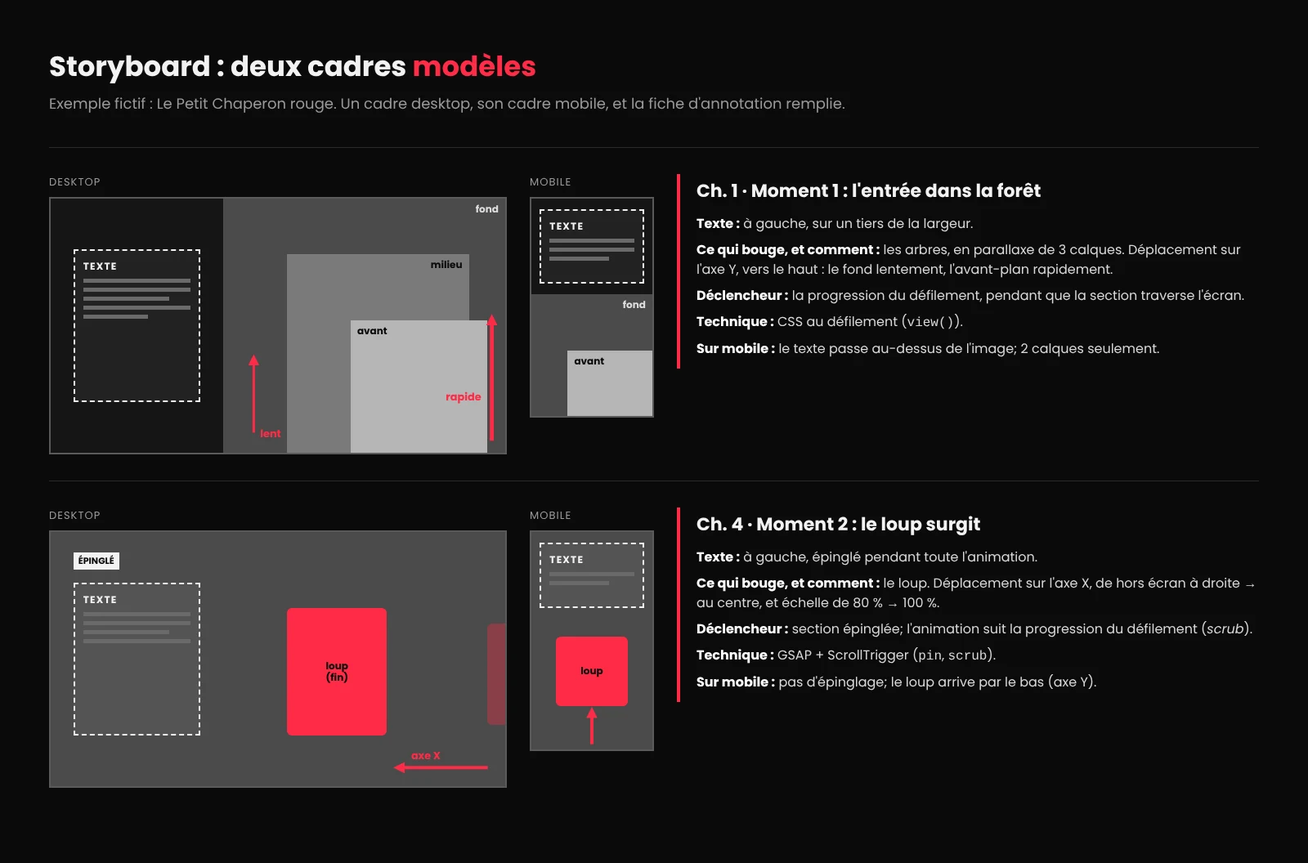
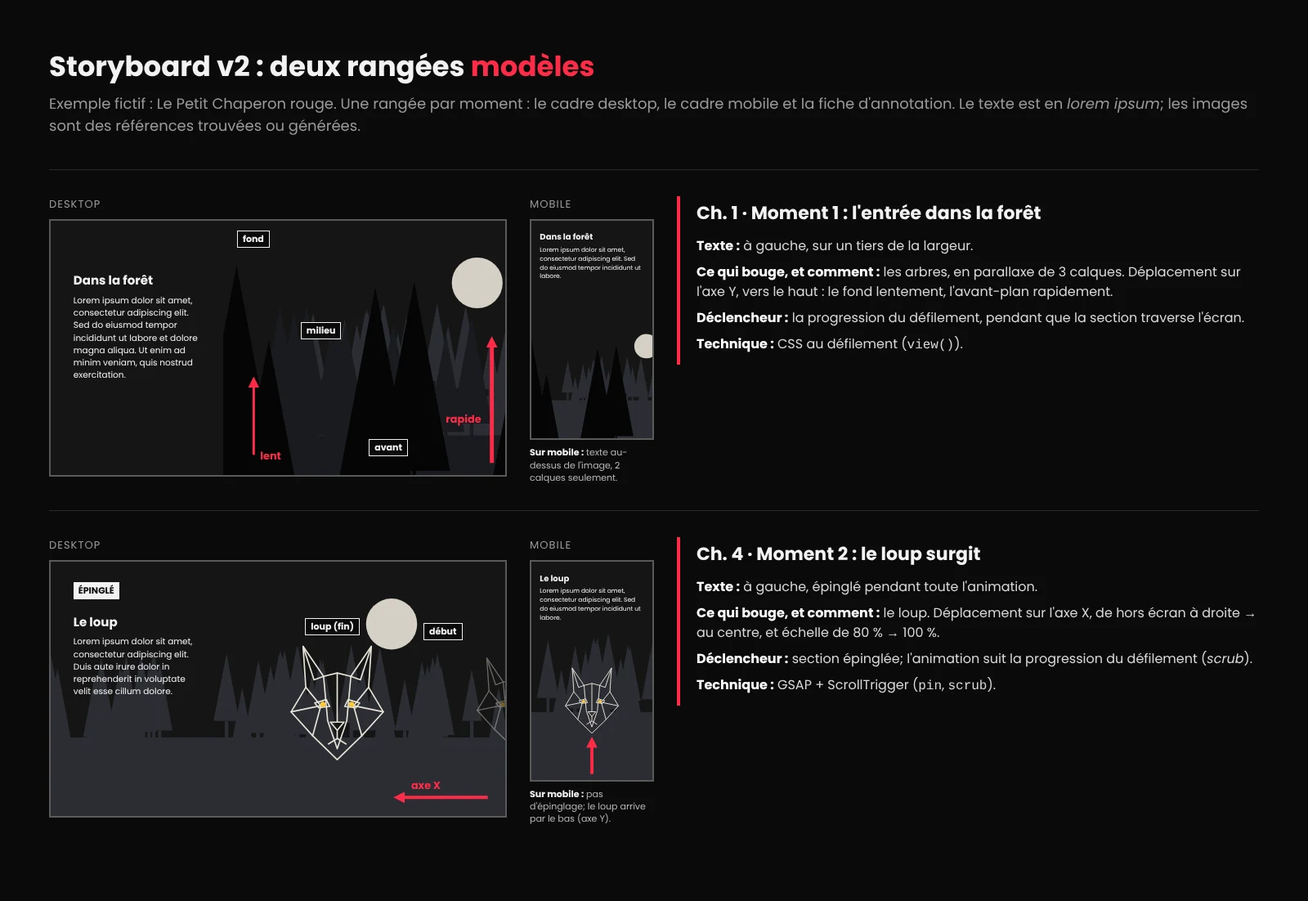
spritesheet et exercice

diff --git a/docs/582-511-web5/css/demo-spritesheet.html b/docs/582-511-web5/css/demo-spritesheet.html
@@ -68,7 +68,7 @@
     .sprite {
       width: min(40vw, 300px);   /* n'importe quelle taille */
       aspect-ratio: 1 / 1;       /* même ratio qu'UNE image */
-      overflow: hidden;          /* la fenêtre : on ne voit qu'une image */
+      overflow: clip;            /* la fenêtre : on ne voit qu'une image */
     }
 
     .sprite img {

diff --git a/docs/582-511-web5/projets/recit-defilant/cahier-de-charges.md b/docs/582-511-web5/projets/recit-defilant/cahier-de-charges.md
@@ -17,7 +17,7 @@
 [:material-file-document-outline: Consignes complètes du récit défilant](index.md){ .md-button }
 
 !!! warning "Le processus est évalué"
-    Le cahier de charges est la première étape de votre processus. Au cours du **mer. 21 oct.**, vous me présenterez votre avancement (concept, chapitres, début du storyboard). Le cahier et le storyboard se font **sans IA** : c'est votre réflexion que je veux voir.
+    Le cahier de charges est la première étape de votre processus. Au cours du **mer. 21 oct.**, vous me présenterez votre avancement (concept, chapitres, début du storyboard). Le cahier et le storyboard se font **sans IA** : c'est votre réflexion que je veux voir. Seule exception : une image générée pour illustrer un cadre du storyboard.
 
 !!! danger "Remises formatives : l'échéance compte"
     Même si une remise est dite « formative », **son échéance compte**. Le respect des échéances de **toutes** les remises du projet (cahier de charges, storyboard v2, point de contrôle, prototype, bêta) aura un **impact sur votre note finale**. [Voir les 4 niveaux](index.md#echeances).
@@ -39,27 +39,32 @@ Vous avez deux semaines, incluant un cours  : le **mer. 21 oct.**, arrivez avec 
 
 Un storyboard de défilement n'est pas une maquette de chaque pixel. C'est **la suite des moments** que vit le visiteur.
 
-**Partez du gabarit** : il contient des cadres desktop et mobile, prêts à dupliquer autant de fois que nécessaire.
+**Partez du gabarit** : il contient **deux pages**, une pour le storyboard **desktop** (cadres en format paysage) et une pour le storyboard **mobile** (cadres en format portrait). Dupliquez les cadres autant de fois que nécessaire.
 
 [:material-download: Télécharger le gabarit de storyboard (Figma)](../../assets/documents/Storyboard_Gabarit_Mobile_Desktop.fig){ .md-button .md-button--primary download }
 
 Pour l'ouvrir : dans l'accueil de Figma, cliquez sur **Importer** (ou glissez le fichier `.fig` dans la fenêtre), puis partagez le fichier avec votre coéquipier ou coéquipière.
 
 !!! warning "Storyboard v2 : à remettre le ven. 30 oct., 23 h 59"
-    Les exigences ci-dessous ont été précisées après la première remise. Reprenez votre storyboard pour qu'il les respecte toutes, puis remettez-le comme la première fois, avec un nouvel export PDF : `documentation/storyboard-v2.pdf`. **Gardez** `storyboard.pdf` : c'est la trace de votre première version.
+    Les exigences ci-dessous ont été précisées après la première remise. Vous montez une **v2** de votre storyboard, sur le modèle des cadres du Chaperon (plus bas).
+
+!!! danger "Ne touchez pas à votre v1"
+    Dans votre fichier Figma, **ne modifiez pas et ne supprimez pas** les pages de votre première version : c'est la trace de votre processus. Créez une **nouvelle page**, nommée `Storyboard V2`, et travaillez seulement là. Dans le dépôt, gardez aussi `documentation/storyboard.pdf` tel quel.
 
 ### Ce que votre storyboard doit contenir
 
-- **Au moins un cadre (*frame*) par chapitre**, en format desktop. Un chapitre où plusieurs animations se produisent, en même temps ou l'une après l'autre, peut avoir **plusieurs cadres** : un par moment important.
-- **Un cadre mobile à côté de chaque cadre desktop.** Il montre ce qui change sur un petit écran : la place du texte, une animation simplifiée ou retirée.
-- **La zone de texte dessinée dans chaque cadre** : un rectangle identifié « Texte ». C'est là que le visiteur lit votre récit; elle doit avoir sa place dans la composition, pas être ajoutée à la fin.
-- **La fiche d'annotation complète**, dans la zone d'annotation de chaque cadre (voir ci-dessous).
-- Les **médias** peuvent être des boîtes grises ou des croquis, mais **lisibles** : quelqu'un d'autre doit comprendre ce qu'il voit.
+- **Une rangée par moment**, comme dans le modèle : le cadre **desktop**, le cadre **mobile** à côté, puis la **fiche d'annotation**. Tout est visible d'un coup d'œil.
+- **Au moins une rangée par chapitre.** Un chapitre où plusieurs animations se produisent, en même temps ou l'une après l'autre, peut avoir **plusieurs rangées** : une par moment important.
+- **Le cadre mobile** montre ce qui change sur un petit écran : la place du texte, une animation simplifiée ou retirée. Sous le cadre mobile, une ligne : ce qui change sur mobile, ou « Comme desktop ».
+- **Le texte du chapitre placé dans chaque cadre** : un titre et un petit paragraphe de *lorem ipsum*, à la taille et à l'endroit où il apparaîtra à l'écran. C'est là que le visiteur lit votre récit : le texte doit avoir sa place dans la composition, pas être ajouté à la fin.
+- **La fiche d'annotation complète**, à droite des deux cadres (voir ci-dessous).
+- **Des images qui montrent ce qu'on doit voir**, pas des boîtes grises : un croquis, ou une image trouvée ou générée, collée dans le cadre pour représenter chaque élément (le décor, le personnage, l'objet). Ce n'est pas l'image finale, c'est une **référence**. Avec des boîtes grises, personne ne sait ce qui est quoi dans le cadre.
+- Si un élément n'est pas évident, **nommez-le** avec une petite étiquette (« loup », « calque avant »).
 - Repérez votre **moment dataviz** et votre **composant Vue** (navigateur de chapitres ou barre de progression).
 
 ### La fiche d'annotation
 
-Copiez ces amorces dans la zone d'annotation de **chaque** cadre, et complétez-les :
+Dans **chaque** rangée, copiez ces amorces dans une zone de texte, à droite des cadres, et complétez-les :
 
 ```text
 Ch. # · Moment # :
@@ -67,7 +72,6 @@ Texte : où est-il placé?
 Ce qui bouge ou ce qui est animé, et comment? :
 Déclencheur :
 Technique :
-Sur mobile :
 ```
 
 - **Ce qui bouge** : l'élément, le type d'animation (tableau ci-dessous), et son départ → son arrivée.
@@ -96,20 +100,31 @@ L'histoire, elle est déjà dans votre tableau des chapitres. La fiche décrit *
 | Le Chaperon rencontre le loup dans la forêt. | Le loup : déplacement sur l'axe X, de hors écran à droite → au centre, pendant le défilement. Le texte reste épinglé à gauche. |
 | La forêt devient de plus en plus sombre. | Le fond : fondu du vert vers le noir (`opacity` d'un calque sombre de 0 à 0,8), selon la progression du défilement. |
 
-### Deux cadres modèles
+### Le modèle : deux rangées
 
-![Deux cadres de storyboard modèles : chaque cadre desktop avec son cadre mobile et sa fiche d'annotation remplie](assets/storyboard-modele.webp)
+![Deux rangées de storyboard modèles : pour chaque moment, le cadre desktop, le cadre mobile et la fiche d'annotation](assets/storyboard-modele.webp)
+
+### Monter votre v2, étape par étape
+
+Vous ne repartez pas de zéro : vous réutilisez les cadres de votre v1.
+
+1. Dans Figma, créez une nouvelle page : `Storyboard V2`.
+2. Pour chaque moment, créez un grand cadre qui servira de **rangée**, nommé comme le moment (ex. `Ch. 4 · Moment 2`).
+3. **Copiez-collez** dans la rangée votre cadre desktop de la v1, et son cadre mobile à côté. S'il n'existe pas encore, créez le cadre mobile.
+4. Complétez les deux cadres : le texte en *lorem ipsum*, des images de référence, des étiquettes au besoin.
+5. Ajoutez la **fiche d'annotation** à droite, et la ligne « sur mobile » sous le cadre mobile.
+6. Placez les rangées dans l'ordre du récit, l'une sous l'autre.
 
 ### Remettre le storyboard : le lien et le PDF
 
 Vous remettez votre storyboard **de deux façons** :
 
 - **Le lien Figma**, dans le `README.md` et dans le cahier (section 2), avec accès donné à `marie-michelle.ouellet@cmontmorency.qc.ca`. C'est la version vivante : je pourrai y laisser des commentaires.
-- **Un export PDF**, déposé dans le dépôt : `documentation/storyboard.pdf`. C'est la version **figée au moment de la remise** : elle montre ce qui était fait à l'échéance.
+- **Un export PDF**, déposé dans le dépôt : `documentation/storyboard.pdf` pour la v1, `documentation/storyboard-v2.pdf` pour la v2. C'est la version **figée au moment de la remise** : elle montre ce qui était fait à l'échéance.
 
-Pour exporter : dans Figma, menu principal → *File* → *Export frames to PDF*. Vérifiez que tous vos cadres y sont, dans l'ordre du récit.
+Pour exporter la v2 : ouvrez la page `Storyboard V2`, puis menu principal → *File* → *Export frames to PDF*. Chaque rangée devient une page du PDF. Vérifiez qu'elles y sont toutes, dans l'ordre du récit.
 
-Pas d'outils IA de Figma pour le storyboard : dans ce projet, l'IA sert **seulement à créer vos médias**, jusqu'à nouvel ordre.
+Pas d'outils IA de Figma pour composer le storyboard ni pour rédiger les annotations. Vous pouvez par contre **générer une image de référence** pour illustrer un cadre : dans ce projet, l'IA sert **seulement à créer des images**, jusqu'à nouvel ordre.
 
 ## Le modèle de données JSON { #le-modele-de-donnees-json }
 
@@ -364,5 +379,5 @@ Ce que chacun aura fait d'ici le cours du mer. 28 oct. : 2 ou 3 lignes par perso
 - [ ] La trace du brainstorm est accessible : lien FigJam partagé, ou photos lisibles dans `documentation/brainstorm/`.
 - [ ] Le lien Figma du storyboard fonctionne, avec accès donné à `marie-michelle.ouellet@cmontmorency.qc.ca`.
 - [ ] Le storyboard est exporté en PDF dans `documentation/storyboard.pdf`, avec tous les cadres.
-- [ ] **Storyboard v2** (ven. 30 oct.) : chaque cadre desktop a son cadre mobile, sa zone de texte et sa fiche d'annotation complète. Exporté dans `documentation/storyboard-v2.pdf`.
+- [ ] **Storyboard v2** (ven. 30 oct.) : sur une nouvelle page Figma (la v1 intacte), une rangée par moment : cadre desktop, cadre mobile, fiche. Le texte en *lorem ipsum*, des images de référence (pas de boîtes grises), une fiche complète. Exporté dans `documentation/storyboard-v2.pdf`.
 - [ ] Le tout est poussé sur GitHub **au plus tard le ven. 23 oct., 23 h 59**.

diff --git a/docs/582-511-web5/css/exercice-spritesheet.md b/docs/582-511-web5/css/exercice-spritesheet.md
@@ -1,0 +1,118 @@
+# Exercice : le monstre responsive
+
+<div class="essentiel" markdown>
+<p class="essentiel__titre">L'essentiel en 3 points</p>
+
+1. Vous partez d'un monstre animé avec la **méthode classique** (arrière-plan + `background-position`), et vous le convertissez à la **version responsive et performante** : une `<img>` déplacée avec `transform`.
+2. Puis vous réglez la vitesse, la pause et `prefers-reduced-motion`.
+3. Défi : faire **marcher le monstre au défilement**. Vous retrouverez un piège que vous connaissez déjà.
+
+</div>
+
+**Seul, environ 40 minutes.** Gardez la page [Animation par spritesheet](animation-spritesheet.md) ouverte à côté.
+
+## Obtenir votre dépôt (5 min)
+
+Votre dépôt est créé pour vous par **Classroom 50**, avec les fichiers de départ.
+
+**[Accepter l'exercice dans Classroom 50](#){ :target="_blank" }**
+<!-- MM : remplacer # par le lien d'acceptation. -->
+
+1. Ouvrez le lien ci-dessus, connectez-vous avec **Sign in with GitHub**, puis acceptez l'exercice.
+2. Quand le dépôt est prêt, ouvrez-le, puis **clonez**-le sur votre poste et ouvrez-le dans VS Code.
+3. Ouvrez `index.html` avec **Live Server** : le monstre marche déjà, avec la méthode classique.
+
+Le dépôt contient :
+
+- `index.html` : la page;
+- `css/style.css` : le style et l'animation, avec la place pour vos réponses de la partie 1;
+- `assets/images/magenta_spritesheet_700.png` : la planche.
+
+## La planche
+
+**19 images** de **700 × 700 px**, côte à côte : une planche de 19 × 700 = **13 300 px** de large.
+
+Le code de départ, dans `index.html` :
+
+```html
+<div class="monstre-magenta"></div>
+```
+
+Et dans `css/style.css` :
+
+```css
+.monstre-magenta {
+  width: 50vw;
+  aspect-ratio: 1 / 1;
+  margin: 0 auto;
+  background-image:
+    url("../assets/images/magenta_spritesheet_700.png");
+  background-size: 1900% 100%;
+  animation: marche 1s steps(19) infinite;
+}
+
+@keyframes marche {
+  from { background-position: 0 0; }
+  to   { background-position: -1900% 0; }
+}
+```
+
+## Partie 1 : lire le code de départ (5 min)
+
+Avant de toucher au code, répondez dans le commentaire prévu en haut de `css/style.css` :
+
+1. Pourquoi `background-size: 1900% 100%`?
+2. Pourquoi `steps(19)`? Remplacez-le par `linear` : que se passe-t-il? Remettez `steps(19)`.
+3. Quelle propriété est animée? Selon les garde-fous du récit défilant, est-ce une bonne propriété à animer?
+
+## Partie 2 : convertir à la version 2 (15 min)
+
+Transformez le code pour utiliser la méthode **responsive et performante** :
+
+- [ ] Dans le HTML, la planche devient une vraie image `<img>`, avec un `alt`, à l'intérieur de la `div`.
+- [ ] La `div` devient la **fenêtre** : la taille d'**une** image, et elle cache tout ce qui dépasse.
+- [ ] L'image fait **19 fois** la largeur de la fenêtre.
+- [ ] L'animation déplace l'image avec **`transform`**, et plus avec `background-position`.
+
+**Vérifiez** : redimensionnez la fenêtre du navigateur. Le monstre suit, et il marche sans trembler ni glisser.
+
+!!! tip "Si le monstre glisse ou tremble"
+    Ajoutez temporairement une bordure à la fenêtre (`outline: 2px solid red`) et mettez l'animation en pause (`animation-play-state: paused`). Changez la valeur de `transform` à la main dans l'inspecteur : chaque image doit remplir exactement la fenêtre.
+
+## Partie 3 : régler (10 min)
+
+- [ ] **La vitesse** : le monstre doit marcher à **12 images par seconde**. Calculez la durée (formule dans la page sur la spritesheet) et écrivez le calcul en commentaire.
+- [ ] **La pause au survol** : quand la souris est sur le monstre, il s'arrête.
+- [ ] **Moins de mouvement** : avec `prefers-reduced-motion: reduce`, le monstre ne marche pas.
+
+Pour tester `prefers-reduced-motion` sans changer les réglages de votre ordinateur : dans Chrome, inspecteur → menu **⋮** → **More tools** → **Rendering** → *Emulate CSS media feature prefers-reduced-motion*.
+
+## Défi : le monstre marche au défilement (10 min)
+
+Dans votre récit défilant, c'est le visiteur qui fait avancer l'animation. Faites la même chose ici : **le monstre fait ses pas quand on défile**, et s'arrête quand on arrête de défiler.
+
+- [ ] Ajoutez de l'espace avant et après le monstre (ex. deux `div` de `150vh`), pour qu'on puisse défiler.
+- [ ] Liez l'animation de l'image à sa visibilité dans l'écran, avec `animation-timeline` (voir [Animations pilotées par le défilement](animations-scroll.md)).
+- [ ] Pendant la traversée de l'écran, le monstre fait **3 cycles** de marche.
+- [ ] Protégez le tout avec `@supports`.
+
+!!! warning "Le monstre reste figé?"
+    Ce n'est pas votre animation. Relisez le piège de la page sur les animations au défilement, à propos d'une propriété de la fenêtre.
+
+**Pour aller plus loin** : faites aussi **traverser l'écran** au monstre, de gauche à droite, pendant qu'il marche. Indice : deux animations, sur deux éléments différents.
+
+## Vos *commits* et la remise
+
+Un *commit* à la **fin de chaque partie**, puis *push* :
+
+```text
+Partie 1 : répond aux questions
+Partie 2 : convertit à la version responsive
+Partie 3 : règle la vitesse, la pause et le mouvement réduit
+Défi : anime la marche au défilement
+```
+
+C'est un exercice de pratique, non noté. Je vois votre dépôt dans Classroom 50, et je peux y laisser des commentaires. Gardez-le : il vous servira de référence pour votre média animable.
+
+!!! info "Pas d'IA"
+    Comme dans votre projet, Copilot est désactivé dans ce dépôt (`.vscode/settings.json`). Le code, c'est vous!

diff --git a/docs/582-511-web5/projets/recit-defilant/git-en-equipe.md b/docs/582-511-web5/projets/recit-defilant/git-en-equipe.md
@@ -65,6 +65,35 @@ Une branche à **votre prénom**, en minuscules, sans accents : `zoe`, `leo`, `m
 
 Vous travaillez comme d'habitude : de petits *commits* fréquents, puis *push*. Vos *commits* vont sur votre branche, et `main` ne bouge pas.
 
+## C'est quoi, une *pull request*?
+
+Une *pull request* (PR), c'est une **demande** faite sur GitHub : « J'ai fait des changements sur ma branche. Je propose de les intégrer dans `main`. » Le nom vient du point de vue de l'équipe : vous lui demandez de **tirer** (*pull*) vos changements dans la version commune.
+
+Pensez au **mode suggestion** dans Word ou Google Docs : vous proposez des modifications, quelqu'un les relit, puis les accepte. Tant que personne n'accepte, le document de référence ne change pas. Ici, le document de référence, c'est `main`.
+
+### Ce qu'on trouve dans une PR
+
+Une PR est une page de votre dépôt sur github.com, avec :
+
+- **la direction** : quelle branche on fusionne, dans laquelle (`main` ← `zoe`);
+- **les *commits*** de la branche qui seront ajoutés à `main`;
+- **les différences** (onglet **Files changed**) : chaque ligne ajoutée en vert, chaque ligne retirée en rouge;
+- **une conversation** : on peut commenter, poser une question, demander une correction, même sur une ligne précise;
+- **le bouton de fusion** (*Merge pull request*). GitHub vous avertit si la fusion crée un conflit.
+
+### Ce qu'il faut retenir
+
+- **Une PR n'est pas une copie figée.** Si on vous demande une correction, faites-la sur votre branche, *commit*, *push* : la PR se met à jour toute seule.
+- **Tant que la PR n'est pas fusionnée, `main` ne bouge pas.** C'est ce qui protège la version de l'équipe.
+- **Une PR fusionnée reste dans l'historique** (onglet **Pull requests** → **Closed**) : c'est la trace de qui a proposé quoi, et de qui l'a accepté.
+
+| Action | Où | Ce que ça fait |
+|---|---|---|
+| *Commit* | Votre poste | Enregistre une étape de votre travail, sur votre branche |
+| *Push* | Votre poste → GitHub | Envoie vos *commits* sur GitHub, toujours sur votre branche |
+| *Pull request* | GitHub | Propose d'intégrer votre branche dans `main` |
+| *Merge* | GitHub | Accepte la proposition : vos *commits* entrent dans `main` |
+
 ## Étape 4 : fusionner dans `main` avec une *pull request*
 
 Une partie de votre travail fonctionne (ex. le chapitre 3 s'affiche et s'anime)? Proposez-la à l'équipe :
@@ -75,10 +104,13 @@ Une partie de votre travail fonctionne (ex. le chapitre 3 s'affiche et s'anime)?
 4. Donnez un titre clair (ex. `Ch. 3 : parallaxe de la forêt`) et décrivez en une ou deux phrases ce que la PR ajoute. **Create pull request**.
 5. Votre coéquipier ou coéquipière y jette un œil (onglet **Files changed**), puis **Merge pull request** → **Confirm merge**.
 
+!!! warning "« This branch has conflicts » : on règle localement"
+    Si GitHub affiche ce message dans votre PR, le bouton de fusion est grisé. N'utilisez pas le bouton **Resolve conflicts** de GitHub : réglez le conflit **sur votre poste**. Sur votre branche, faites l'[étape 5](#etape-5) (*fetch*, puis *merge* de `origin/main`), [réglez le conflit](#les-conflits) dans VS Code, testez avec Live Server, puis *commit* et *push*. La PR se met à jour toute seule, et le bouton redevient vert.
+
 !!! tip "Petites PR, souvent"
     Une PR par partie terminée (un chapitre, un média intégré), pas une énorme PR la veille de la remise. Plus elle est petite, moins il y a de risques de conflit.
 
-## Étape 5 : mettre sa branche à jour avec `main`
+## Étape 5 : mettre sa branche à jour avec `main` { #etape-5 }
 
 Après la fusion d'une PR, `main` contient du nouveau travail. Avant de continuer, **chacun récupère `main` dans sa branche** :
 
@@ -90,7 +122,7 @@ Après la fusion d'une PR, `main` contient du nouveau travail. Avant de continue
 
 Puis *push*. Faites-le **souvent** : au début de chaque séance de travail, et après chaque PR fusionnée.
 
-## Les conflits
+## Les conflits { #les-conflits }
 
 ### Pourquoi un conflit?
 

diff --git a/docs/582-511-web5/cours09a.md b/docs/582-511-web5/cours09a.md
@@ -92,7 +92,10 @@ En attendant votre tour, relisez la **section 9** de votre cahier : **vos procha
 
 ### Le storyboard v2 : pour le ven. 30 oct., 23 h 59
 
-Les exigences du storyboard sont maintenant précisées : un **cadre mobile** pour chaque cadre desktop, la **zone de texte** dessinée, et une **fiche d'annotation** qui décrit l'animation, pas l'histoire. Deux cadres modèles vous montrent le résultat attendu.
+Les exigences du storyboard sont maintenant précisées. Vous montez une v2 sur le modèle du Chaperon : **une rangée par moment**, avec le cadre **desktop**, le cadre **mobile** et la **fiche d'annotation**, qui décrit l'animation, pas l'histoire. Vous réutilisez vos cadres de la v1 par copier-coller.
+
+!!! danger "Ne touchez pas à votre v1"
+    Dans Figma, ne modifiez pas et ne supprimez pas les pages de votre première version. Créez une **nouvelle page** `Storyboard V2`, et travaillez seulement là. Dans le dépôt, `storyboard.pdf` reste tel quel; la v2 va dans `storyboard-v2.pdf`.
 
 [:material-movie-open-edit-outline: Le storyboard : exigences et cadres modèles](projets/recit-defilant/cahier-de-charges.md#storyboard){ .md-button .md-button--primary }
 
@@ -100,7 +103,13 @@ Les exigences du storyboard sont maintenant précisées : un **cadre mobile** po
 
 À deux dans le même dépôt, on ne travaille plus comme au portfolio. Aujourd'hui : une branche par personne, la fusion par *pull request*, les conflits, et une façon commune de nommer vos *commits*.
 
-[:material-source-branch: Git en équipe](projets/recit-defilant/git-en-equipe.md){ .md-button .md-button--primary }
+**D'abord, un rappel** : c'est quoi une branche, la branche active, créer, changer et publier une branche. Vous l'avez vu au portfolio.
+
+[:material-source-branch: Les branches Git, en 10 minutes](projets/portfolio/branches-git.md){ .md-button }
+
+**Puis, le travail à deux** : la *pull request*, la mise à jour de sa branche, les conflits et la convention de *commits*.
+
+[:material-account-multiple-outline: Git en équipe](projets/recit-defilant/git-en-equipe.md){ .md-button .md-button--primary }
 [:material-presentation-play: Présentation (PowerPoint)](assets/documents/Web5_git-en-equipe.pptx){ .md-button }
 
 ## 3. Exercice : provoquer et régler un conflit
@@ -127,6 +136,7 @@ Deux des trois formats de **média animable** se jouent en CSS.
 **La spritesheet** : toutes les images d'une animation côte à côte dans un seul fichier, montrées une à la fois avec `steps()`. Pour votre projet, la version responsive, avec `transform`.
 
 [:material-filmstrip: Animation par spritesheet](css/animation-spritesheet.md){ .md-button .md-button--primary }
+[:material-pencil-ruler: Exercice : le monstre responsive](css/exercice-spritesheet.md){ .md-button }
 
 **La parallaxe en calques** : des plans qui défilent à des vitesses différentes, pour donner de la profondeur.
 

diff --git a/docs/582-511-web5/css/animation-spritesheet.md b/docs/582-511-web5/css/animation-spritesheet.md
@@ -75,7 +75,7 @@ La solution : la planche devient une vraie image `<img>`, placée dans une **fen
 .sprite {
   width: min(40vw, 300px); /* n'importe quelle taille */
   aspect-ratio: 1 / 1;     /* le ratio d'UNE image */
-  overflow: hidden;        /* on ne voit qu'une image */
+  overflow: clip;          /* on ne voit qu'une image */
 }
 
 .sprite img {
@@ -97,6 +97,7 @@ La solution : la planche devient une vraie image `<img>`, placée dans une **fen
 - L'image fait **8 fois** la largeur de la fenêtre (`width: 800%`) : une image de la planche remplit exactement la fenêtre.
 - `translateX(-100%)` se calcule sur la largeur **de l'image elle-même** : toute la planche glisse vers la gauche.
 - `steps(8)` découpe ce trajet en 8 sauts : 0 %, -12,5 %, -25 %… soit exactement une image à chaque saut.
+- `overflow: clip`, et non `hidden` : avec `hidden`, la fenêtre devient un conteneur de défilement, et une spritesheet pilotée par le défilement (`animation-timeline`) resterait figée.
 
 Pour une planche de **12** images : `width: 1200%` et `steps(12)`. C'est tout.
 
@@ -148,5 +149,9 @@ C'est l'un des trois formats de **média animable** du récit défilant : **6 à
 
 !!! tip "Le test du chiffre"
     Pendant que vous préparez votre planche, écrivez un petit numéro dans le coin de chaque image, comme dans la démo. Si l'animation saute ou tremble, vous verrez tout de suite quelle image est mal placée. Retirez les numéros à la fin.
+
+## Pour pratiquer
+
+[:material-pencil-ruler: Exercice : le monstre responsive](exercice-spritesheet.md){ .md-button .md-button--primary }
 
 <!-- Contenu adapté des pages « Animation Sprite Sheet » (582-211) et « Animation sprite sheet intermédiaire » (582-424MO), inspirées du travail de Simon Arnold. -->

diff --git a/docs/582-511-web5/projets/recit-defilant/index.md b/docs/582-511-web5/projets/recit-defilant/index.md
@@ -167,6 +167,7 @@ Cette règle s'applique **jusqu'à nouvel ordre**. Si elle change en cours de pr
 | Les **notes du cours** et les **démos présentées en classe** | Figma Make, Google Stitch ou autre générateur de code ou de maquette |
 | **Vos collègues** : on s'explique, on ne copie pas | L'IA pour rédiger le cahier de charges, le storyboard ou le journal |
 | **Moi**, en classe et au tutorat | |
+| Générer une **image de référence** pour illustrer un cadre du storyboard | |
 
 !!! tip "Désactiver Copilot dans votre projet"
     Créez le fichier `.vscode/settings.json` à la racine de votre dépôt, et *commitez*-le :
@@ -259,6 +260,6 @@ Une étape ratée se rattrape en partie : une **v2 complète** du storyboard (ve
 
 ## Storyboard v2 (ven. 30 oct., 23 h 59) { #storyboard-v2 }
 
-Après nos rencontres du mer. 28 oct., vous reprenez votre storyboard avec les exigences précisées : un cadre mobile pour chaque cadre desktop, la zone de texte dessinée, et la fiche d'annotation complète.
+Après nos rencontres du mer. 28 oct., vous reprenez votre storyboard avec les exigences précisées : un cadre mobile pour chaque cadre desktop, le texte de chaque chapitre placé dans le cadre (en *lorem ipsum*), et la fiche d'annotation complète.
 
 [:material-movie-open-edit-outline: Le storyboard : exigences et cadres modèles](cahier-de-charges.md#storyboard){ .md-button .md-button--primary }

diff --git a/docs/582-511-web5/projets/recit-defilant/exercice-conflit.md b/docs/582-511-web5/projets/recit-defilant/exercice-conflit.md
@@ -24,6 +24,16 @@ Votre dépôt est créé pour vous par **Classroom 50**, avec le fichier `index.
 4. Quand le dépôt est prêt, cliquez sur **Open repository**. Vérifiez que vous voyez **le même dépôt** tous les deux.
 5. Chacun **clone** le dépôt sur son poste et l'ouvre dans VS Code.
 
+??? warning "Plan B : si Classroom 50 ne fonctionne pas"
+    Ouvrez cet encadré seulement si je vous le demande, ou si votre duo reste bloqué. On crée le même dépôt, directement sur GitHub.
+
+    1. **Personne A** : ouvrez le [dépôt modèle](https://github.com/apprendre-avec-mariemi/gabarit-exercice-conflit-git){ :target="_blank" }, puis **Use this template** → **Create a new repository**. Créez-le dans **votre compte**, en **privé**, sous le nom `exercice-conflit-git`.
+    2. **Personne A** : dans le nouveau dépôt, **Settings** → **Collaborators** → **Add people**. Ajoutez la personne B, et `marie-michelle-ouellet` (c'est votre remise).
+    3. **Personne B** : acceptez l'invitation, reçue par courriel ou dans les notifications de github.com.
+    4. Chacun **clone** le dépôt sur son poste et l'ouvre dans VS Code.
+
+    La suite de l'exercice est identique. C'est d'ailleurs exactement comme ça que fonctionne le dépôt de votre vrai projet.
+
 Le dépôt est **privé** : seuls vous deux et moi y avons accès. Ouvrez `index.html` : il contient ceci.
 
 ```html
